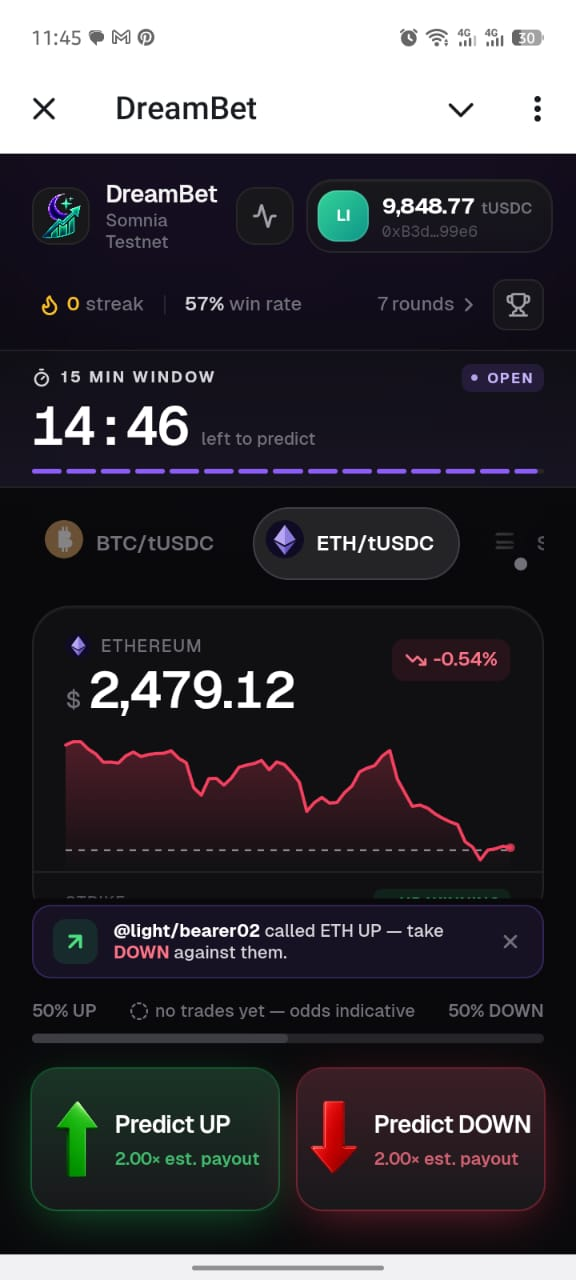
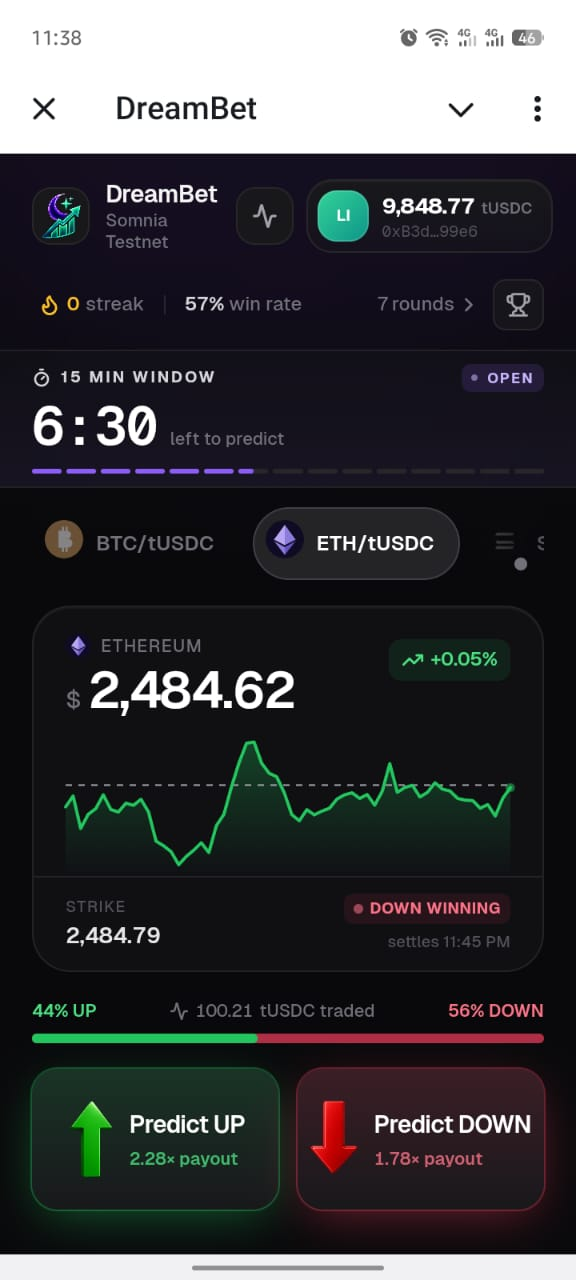
Follow one bet through the screens, three rows of three
The board shot is replaced: the old one had a challenge banner over the strike
row and an empty book, so it showed 50/50 at 2.00x est. and never the line. The
new one shows the strike, which side is winning, when it settles, and odds off
100.21 tUSDC actually traded.

Three shots are added — the share card, the open bet and a miss — and together
with the board they follow a single bet: 9.70 on ETH UP against 2,484.79, shared
at 3.13x, losing by 0.17 with six minutes left, missed at 2,484.40. The miss sits
beside the win so the README's claim that a loss stays quiet can be seen, not
just read.

Claude-Session: https://claude.ai/code/session_01Bk81fWVo9SK4BSqbR1bghN

diff --git a/README.md b/README.md
@@ -43,13 +43,18 @@ DreamBet is a Telegram Mini App, so it opens inside the conversation. No install
 <td align="center" width="33%"><img src="docs/pulse.jpg" width="240" alt="Market Pulse"><br><sub><b>Market Pulse</b></sub></td>
 </tr>
 <tr>
-<td align="center" width="33%"><img src="docs/result-win.jpg" width="240" alt="The result"><br><sub><b>The result</b></sub></td>
+<td align="center" width="33%"><img src="docs/share.jpg" width="240" alt="The share card"><br><sub><b>The share card</b></sub></td>
+<td align="center" width="33%"><img src="docs/position.jpg" width="240" alt="The open bet"><br><sub><b>The open bet</b></sub></td>
+<td align="center" width="33%"><img src="docs/result-win.jpg" width="240" alt="A win"><br><sub><b>A win</b></sub></td>
+</tr>
+<tr>
+<td align="center" width="33%"><img src="docs/result-loss.jpg" width="240" alt="A miss"><br><sub><b>A miss</b></sub></td>
 <td align="center" width="33%"><img src="docs/record.jpg" width="240" alt="Your record"><br><sub><b>Your record</b></sub></td>
 <td align="center" width="33%"><img src="docs/leaderboard.jpg" width="240" alt="The group"><br><sub><b>The group</b></sub></td>
 </tr>
 </table>
 
-*Every figure in those six shots is real: a live 15-minute ETH window, a 1.76× quote off the resting book, a settled +62.75, and a record of seven bets the chain actually resolved.*
+*Every figure in those nine shots is real. One bet runs through them end to end: 9.70 tUSDC on ETH UP against a 2,484.79 strike, shared to the group at 3.13×, losing by seventeen cents with six minutes to run, and missed when the window settled at 2,484.40. Around it, a 1.76× quote off the resting book, a settled +62.75, and a record of seven bets the chain actually resolved.*
 
 **The board.** Three assets as pills, each showing whether it has anything behind it right now — a dark one dims and refuses the tap rather than looking fine until you press it. A live price chart drawn from oracle prints, the line your bet settles against drawn across it, and a countdown that names the window it is counting: *15 min window*, *1 hour window*.
 
